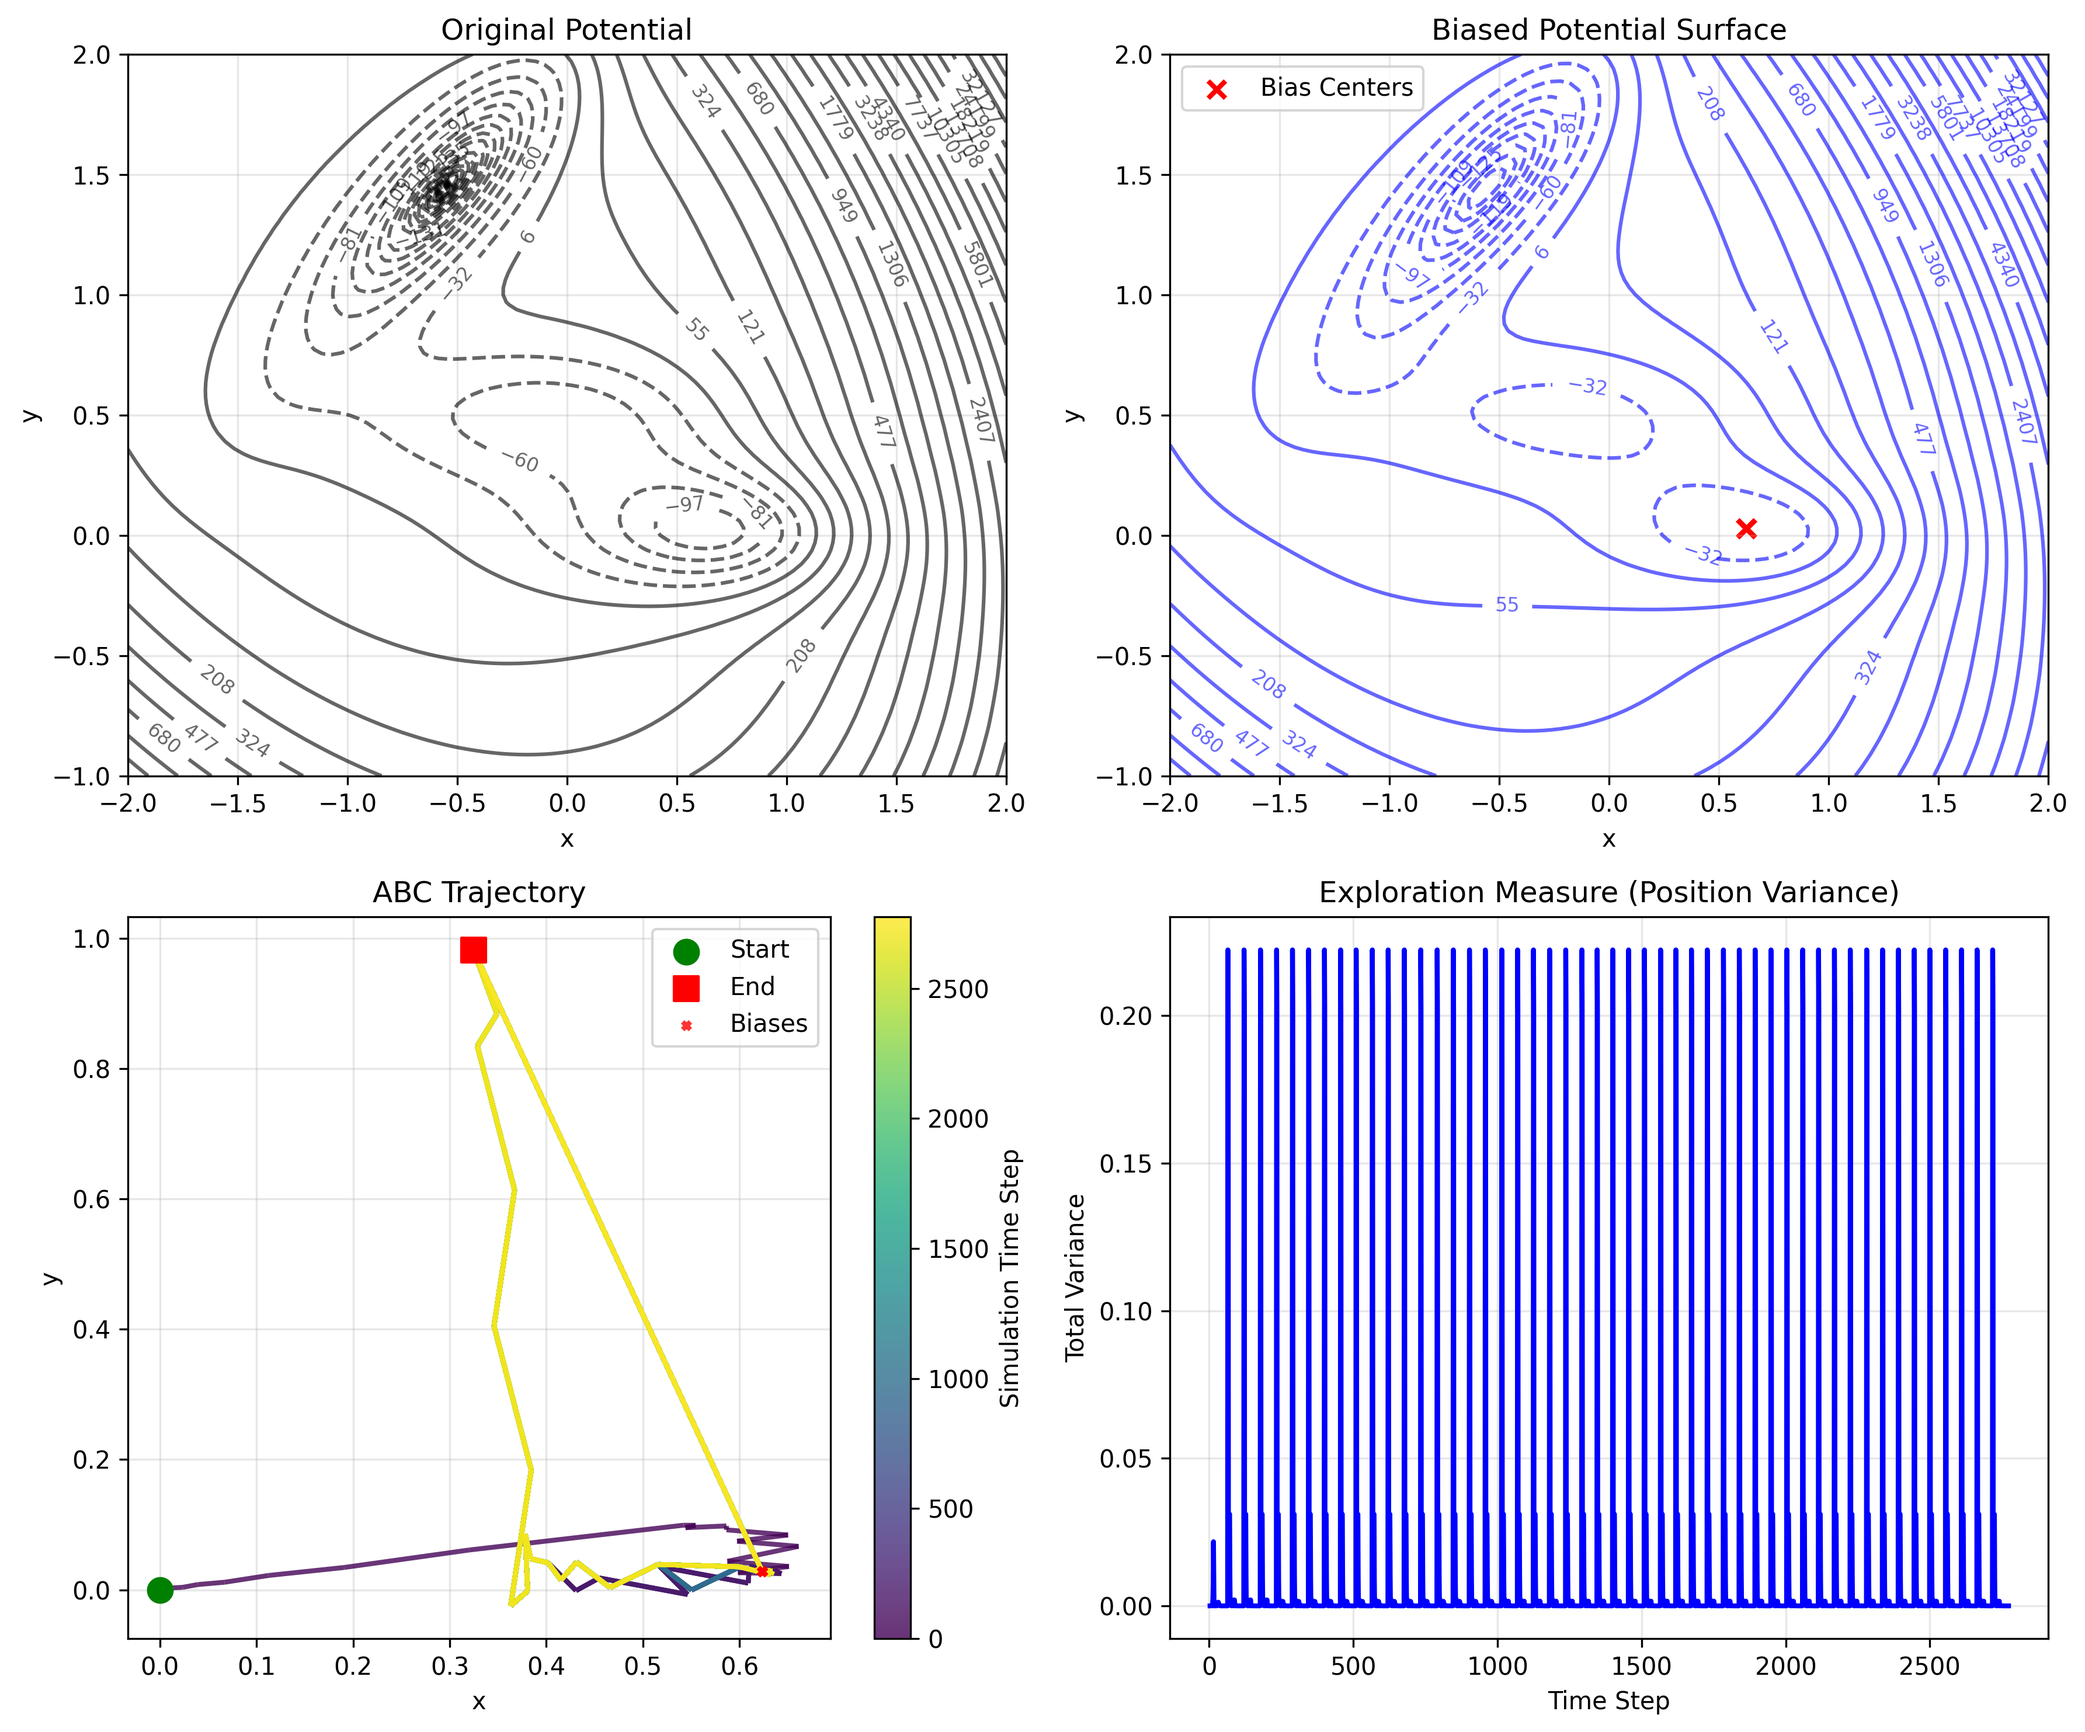
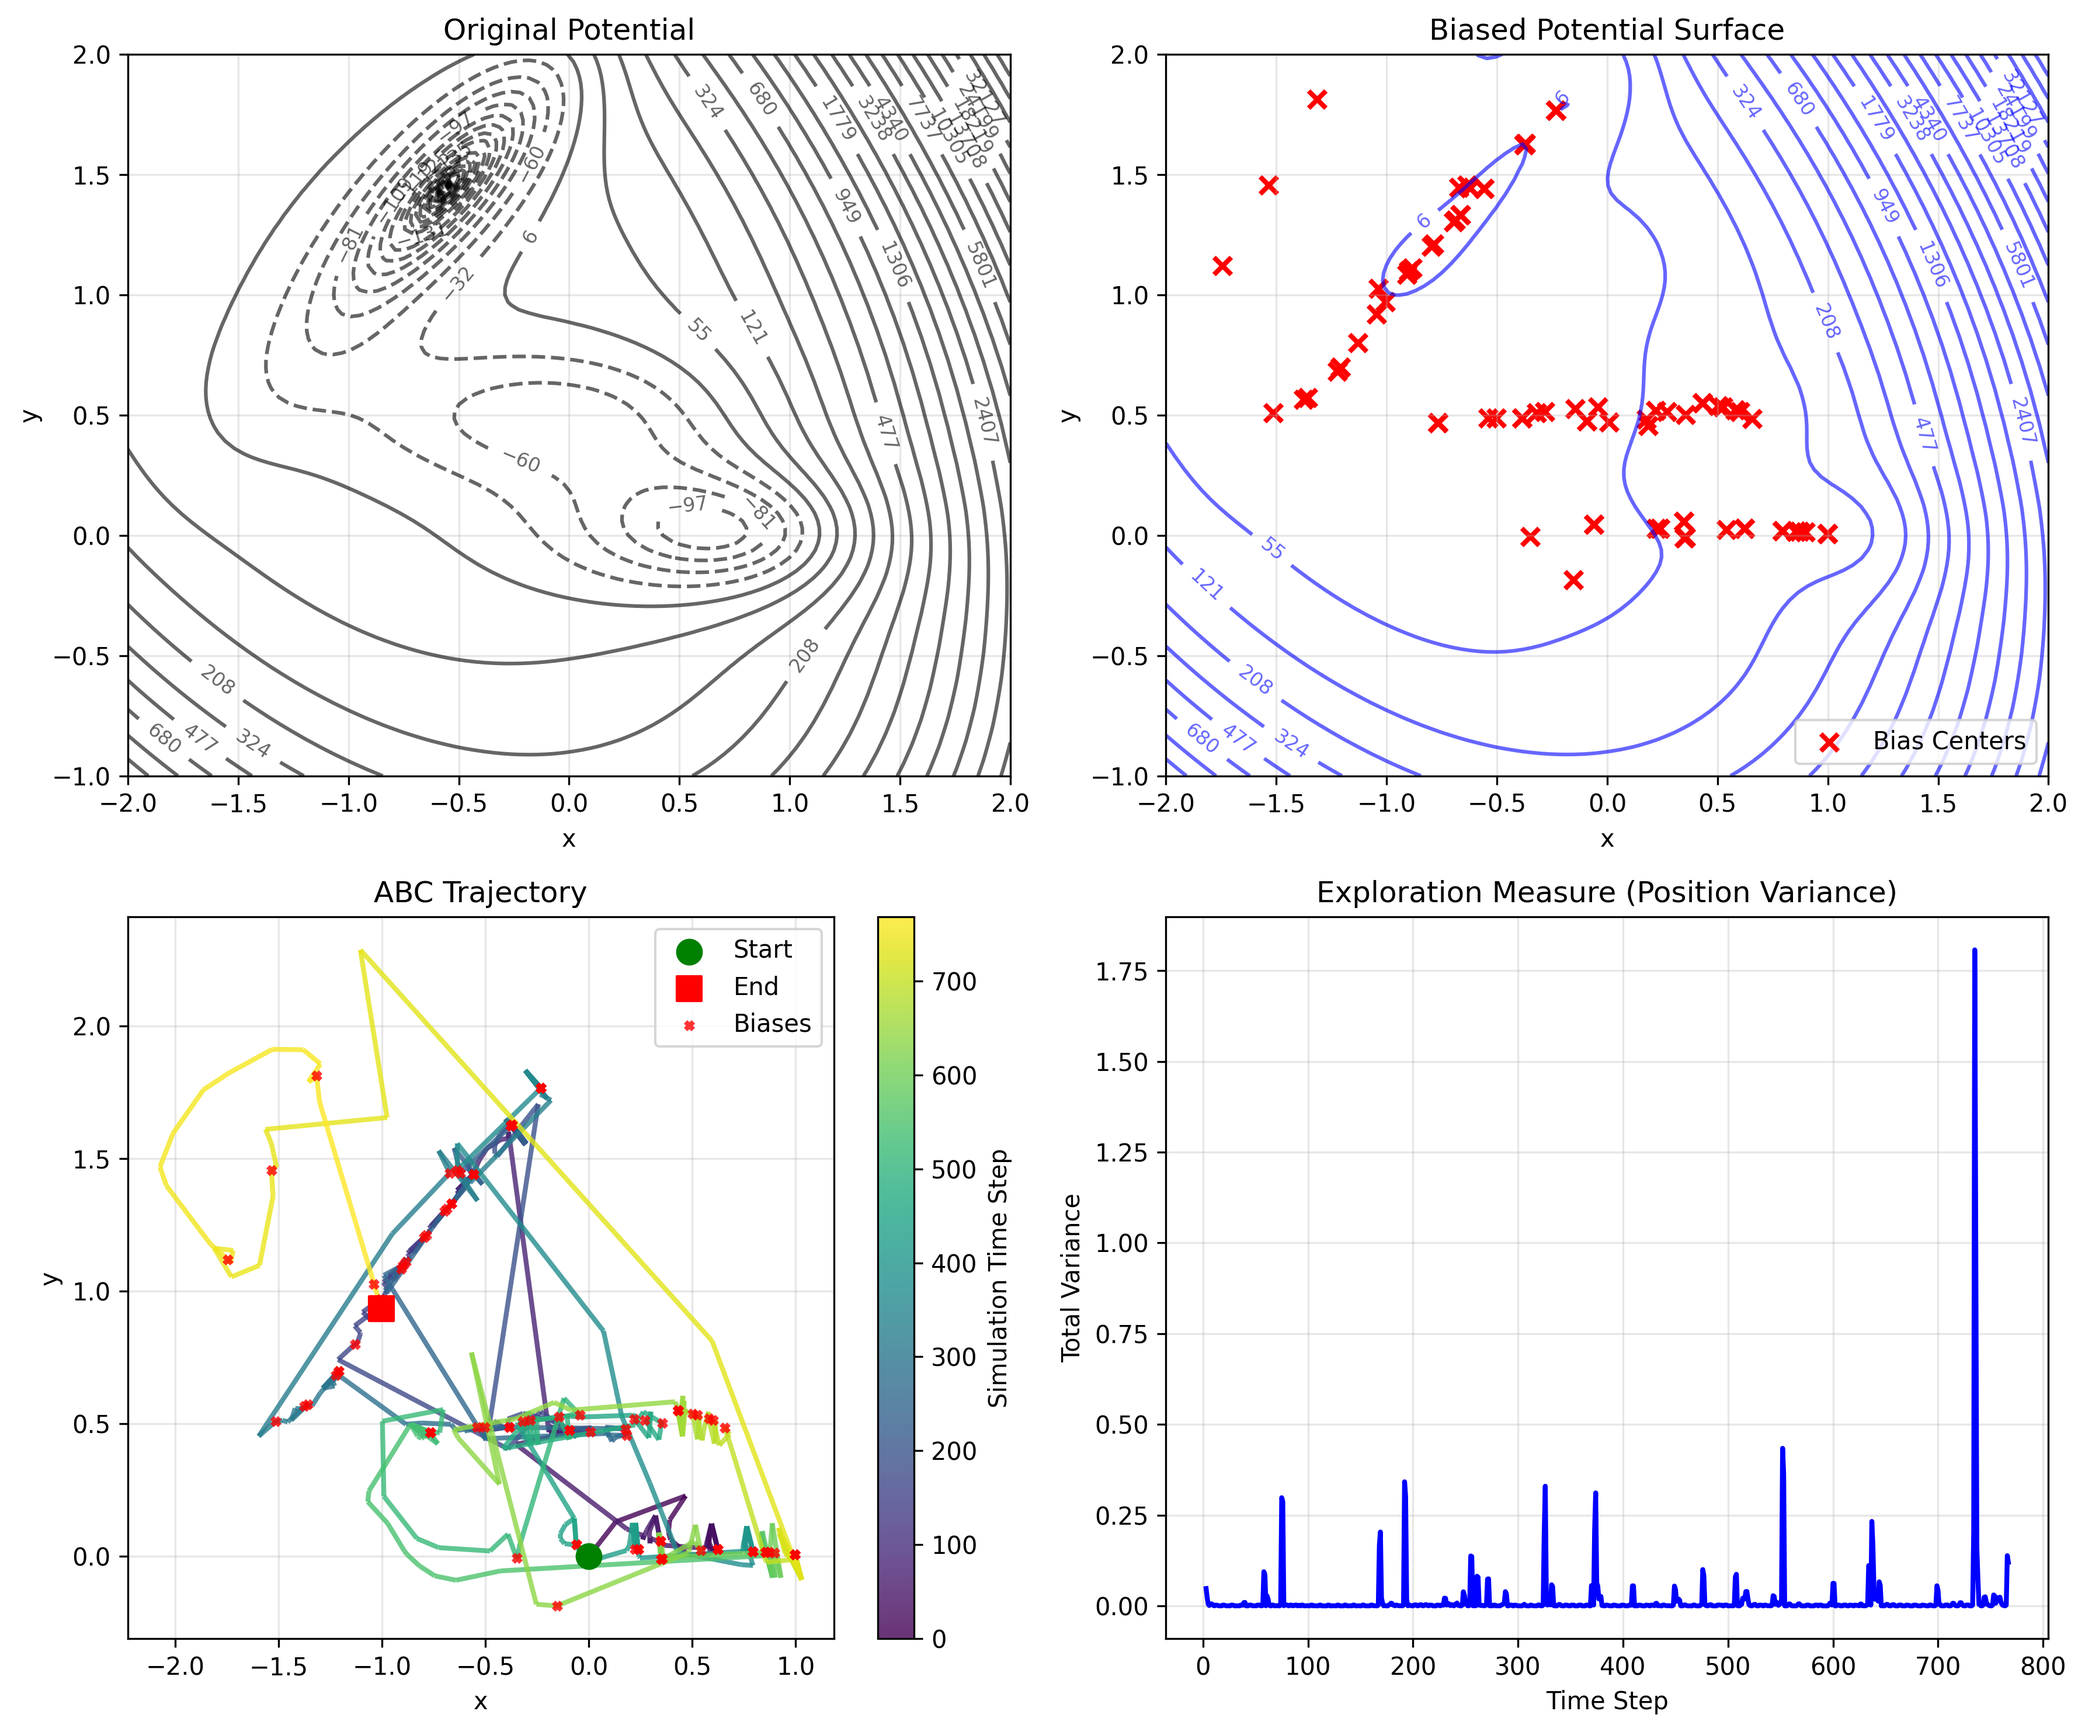
returned to prior optimizing

diff --git a/smart_perturbation.py b/smart_perturbation.py
@@ -33,7 +33,7 @@ class SmartPerturbABC(TraditionalABC):
     def compute_exact_softest_hessian_mode(self, position):
         """
         Fully diagonalize the Hessian to find the exact softest mode.
-        Only use for low-dimensional potentials.
+        More efficient than estimator for low-dim potentials, worse for high-dim
         """
         hessian = self.compute_hessian_finite_difference(position)
         eigvals, eigvecs = np.linalg.eigh(hessian)
@@ -179,13 +179,14 @@ def run_2d_simulation():
     potential = MullerBrownPotential2D()
     abc = SmartPerturbABC(
         potential=potential,
-        bias_height=1,
-        bias_sigma=1,
+        bias_height=10,
+        bias_sigma=0.5,
         basin_radius=0.5,
         starting_position=[0, 0],
+        optimizer='L-BFGS-B'
     )
     
-    abc.run_simulation(max_iterations=50, perturb_scale=1, full_hessians=True, verbose=True)
+    abc.run_simulation(max_iterations=100, perturb_scale=0.1, full_hessians=True, verbose=True)
     
     trajectory = abc.get_trajectory()
     print(f"\nSimulation Summary:")
@@ -198,11 +199,11 @@ def run_2d_simulation():
 
 def main():
     """Run both 1D and 2D simulations."""
-    print("Running 1D Simulation")
-    run_1d_simulation()
+    # print("Running 1D Simulation")
+    # run_1d_simulation()
     
-    # print("\nRunning 2D Simulation")
-    # run_2d_simulation()
+    print("\nRunning 2D Simulation")
+    run_2d_simulation()
 
 if __name__ == "__main__":
     main()

diff --git a/analysis.py b/analysis.py
@@ -134,7 +134,7 @@ def _plot_2d_results(abc_sim, save_plots, filename="2d_results.png"):
     # Plot 3: Trajectory
     trajectory = abc_sim.get_trajectory()
     if len(trajectory) > 1:
-        points = np.array(trajectory)
+        points = np.array(trajectory).reshape(-1,1,2)
         segments = np.concatenate([points[:-1], points[1:]], axis=1)
         
         # Time-based colormap

diff --git a/traditional_abc.py b/traditional_abc.py
@@ -158,7 +158,7 @@ class TraditionalABC:
             self.total_potential,
             self.position,
             method=self.optimizer,
-            jac=lambda x: -self.compute_force(x)/3,
+            jac=lambda x: -self.compute_force(x),
             tol=convergence_threshold,
             options={'maxiter': max_steps, 'disp': False},
             callback=callback
